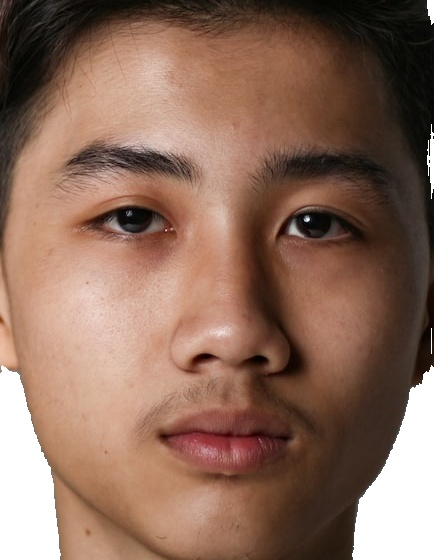
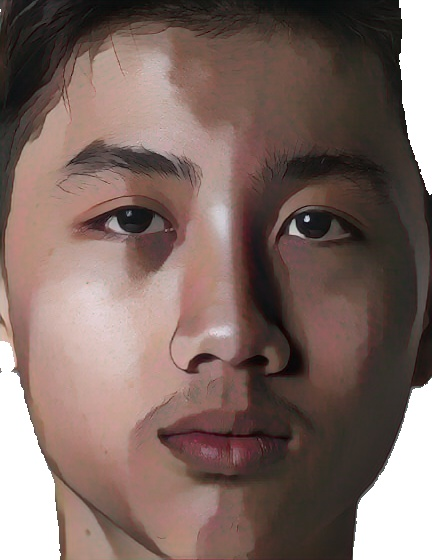
All worked

diff --git a/Cartoonifier.py b/Cartoonifier.py
@@ -1,0 +1,45 @@
+import requests
+import cv2
+import numpy as np
+
+class Cartoonifier:
+    def __init__(self):
+        self.headers = {
+            'accept': 'image/png'
+        }
+        self.url = 'https://master-white-box-cartoonization-psi1104.endpoint.ainize.ai/predict'
+
+    def process(self, img):
+        encoded_img = cv2.imencode('.png', img)[1]
+        image_bytes = encoded_img.tobytes()
+
+        files = {
+            'file_type': (None, 'image'),
+            'source': ('', image_bytes, 'image/png')
+        }
+
+        response = requests.post(self.url, headers=self.headers, files=files)
+
+        buff = np.fromstring(response.content, np.uint8)
+
+        return cv2.imdecode(buff, cv2.IMREAD_COLOR)
+
+if __name__ == "__main__":
+    filename = "face1.jpeg"
+    img = cv2.imread(filename)
+    cartoonify = Cartoonify()
+    print(cartoonify.process(img))
+# return cv2.imdecode(response.content, cv2.1)
+# with open('img.png', 'wb') as f:
+#     f.write(response.content)
+# files = { 
+#     'file_type': (None, 'image'),
+#     'source': (filename, open(filename, 'rb'), 'image/png')
+# }
+
+# response = requests.post('https://master-white-box-cartoonization-psi1104.endpoint.ainize.ai/predict', headers=headers, files=files)
+
+# with open('img.png', 'wb') as f:
+#     f.write(response.content)
+
+# print(response.text)

diff --git a/index.py b/index.py
@@ -1,12 +1,14 @@
 from FaceExtractor import FaceExtractor
 from BackgroundRemover import BackgroundRemover
+from Cartoonifier import Cartoonifier
 
 def process(img):
     face_extractor = FaceExtractor()
     bg_remover     = BackgroundRemover()
+    cartoonifier   = Cartoonifier()
 
     result_img = img
-    for processor in [face_extractor, bg_remover]:
+    for processor in [face_extractor, cartoonifier, bg_remover]:
         result_img = processor.process(result_img)
 
     return result_img
